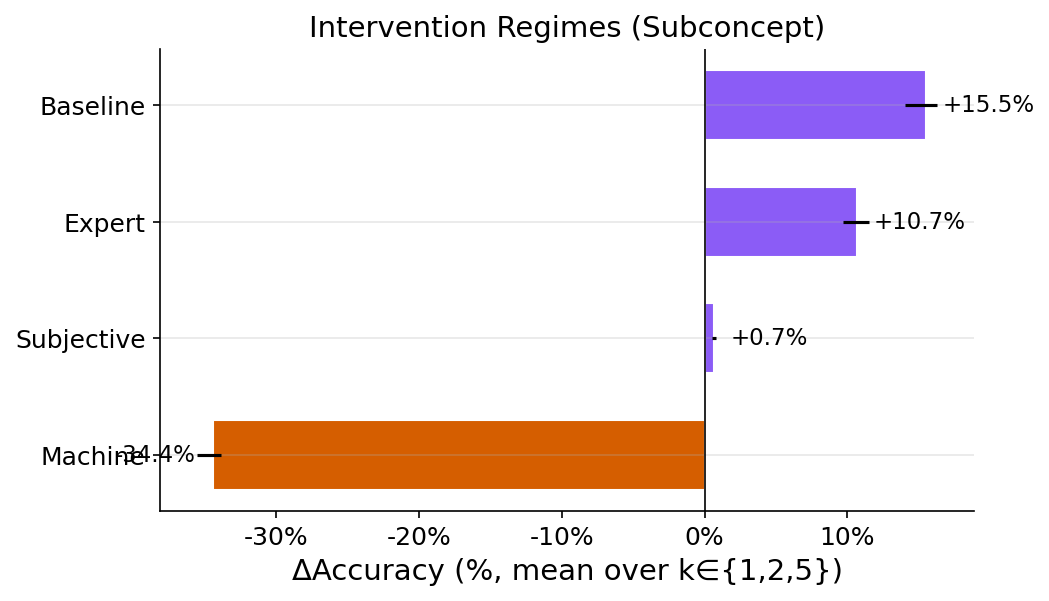
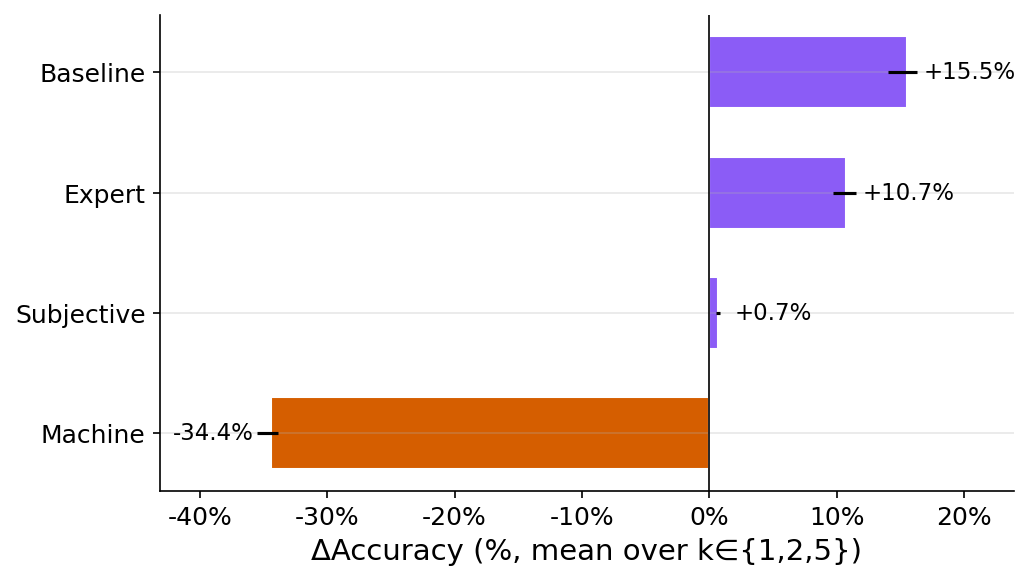
Fix plots (annotation clipping), rewrite Quick Start with concept discovery
- Fixed annotation padding in all plot functions (clip_on=False, ylim/xlim padding)
- Quick Start now trains both ideal and subconcept CBMs, uses benchmark.accuracy,
  and shows plot_concept_discovery — fully runnable from repo
- Generated 3 clean plot PNGs: intervention_curve, regime_comparison, concept_discovery

Changed region(s): [[0.0, 0.0929, 0.9622, 0.9914], [0.2793, 0.031, 0.9932, 0.4337], [0.6518, 0.4647, 0.807, 0.6196]]

diff --git a/concept_benchmark/benchmark/plots.py b/concept_benchmark/benchmark/plots.py
@@ -72,23 +72,24 @@ def plot_intervention_curve(
             f"{y:.1f}%",
             (x, y),
             textcoords="offset points",
-            xytext=(0, 8),
+            xytext=(0, 10),
             fontsize=style.FONT_SIZE_ANNOT,
             ha="center",
+            clip_on=False,
         )
 
     if baseline_accuracy is not None:
-        ax.axhline(
-            baseline_accuracy * 100,
-            color=style.COLOR_BASELINE,
-            linestyle="--",
-            linewidth=1.5,
-            label="DNN baseline",
-        )
+        bval = baseline_accuracy * 100
+        ax.axhline(bval, color=style.COLOR_BASELINE, linestyle="--", linewidth=1.5, label="DNN baseline")
 
     ax.set_xlabel("Intervention budget (k)", fontsize=style.FONT_SIZE)
     ax.set_ylabel(metric.replace("_", " ").title() + " (%)", fontsize=style.FONT_SIZE)
     ax.yaxis.set_major_formatter(style.pct_formatter())
+
+    # Pad y-axis to avoid clipping annotations
+    ymin, ymax = ax.get_ylim()
+    ax.set_ylim(ymin - 1, ymax + 3)
+
     style.apply_style(ax)
 
     if label or baseline_accuracy is not None:
@@ -153,14 +154,16 @@ def plot_regime_comparison(
     ax.axvline(0, color="black", linewidth=0.8)
 
     for i, m in enumerate(means):
+        # Always annotate on the outer end of the bar
         ax.annotate(
             f"{m:+.1f}%",
             (m, i),
             textcoords="offset points",
-            xytext=(8 if m >= 0 else -8, 0),
+            xytext=(8, 0) if m >= 0 else (-8, 0),
             fontsize=style.FONT_SIZE_ANNOT,
             ha="left" if m >= 0 else "right",
             va="center",
+            clip_on=False,
         )
 
     ax.set_xlabel(
@@ -170,6 +173,10 @@ def plot_regime_comparison(
     ax.xaxis.set_major_formatter(style.pct_formatter())
     style.apply_style(ax)
     ax.invert_yaxis()
+
+    # Pad x-axis so annotations don't clip
+    xmin, xmax = ax.get_xlim()
+    ax.set_xlim(xmin - 5, xmax + 5)
 
     return fig, ax
 
@@ -381,6 +388,9 @@ def plot_concept_discovery(
             ha="center",
             va="bottom",
             fontsize=style.FONT_SIZE_ANNOT,
+            xytext=(0, 3),
+            textcoords="offset points",
+            clip_on=False,
         )
         ax.annotate(
             f"{b:.1f}%",
@@ -388,12 +398,20 @@ def plot_concept_discovery(
             ha="center",
             va="bottom",
             fontsize=style.FONT_SIZE_ANNOT,
+            xytext=(0, 3),
+            textcoords="offset points",
+            clip_on=False,
         )
 
     ax.set_xticks(x)
     ax.set_xticklabels([f"k={k}" for k in budgets], fontsize=style.FONT_SIZE)
     ax.set_ylabel("Accuracy (%)", fontsize=style.FONT_SIZE)
     ax.yaxis.set_major_formatter(style.pct_formatter())
+
+    # Pad y-axis for annotations
+    ymin, ymax = ax.get_ylim()
+    ax.set_ylim(ymin, ymax + 3)
+
     ax.legend(fontsize=style.FONT_SIZE_LEGEND)
     style.apply_style(ax)
 

diff --git a/README.md b/README.md
@@ -113,52 +113,55 @@ dataset.train.explore()  # opens in the browser
   <img src="docs/assets/robot_samples.png" width="600" alt="Sample Glorps and Drents with concept annotations">
 </p>
 
-Train a CBM — concept detector (images → concepts) and label predictor (concepts → label):
+Train CBMs on both concept sets and compare (requires cloning the repo):
 
 ```python
-import numpy as np
-from experiments.models import (
-    ConceptDetector, FrontEndModel, ConceptBasedModel, RobotConceptClassifier,
-)
-
-# Using `dataset` from the generation step above
-# Step 1: train concept detector (images → concepts)
-n_concepts = dataset.train.n_concepts
-cd = ConceptDetector(model=RobotConceptClassifier(num_concepts=n_concepts, input_size=32))
-cd.fit(dataset.train, dataset.val,
-       fit_params={"epochs": 50, "lr": 1e-3, "patience": 10})
-
-# Step 2: train label predictor (concepts → label)
-fe = FrontEndModel()
-fe.fit(dataset.train.C, dataset.train.y)
-
-# Step 3: combine into a CBM and evaluate
-cbm = ConceptBasedModel(concept_detector=cd, label_predictor=fe)
-predictions = cbm.predict(dataset.test)
-accuracy = np.mean(predictions == dataset.test.y)
-print(f"CBM accuracy: {accuracy:.4f}")
-# CBM accuracy: 0.7812
-```
-
-For a complete walkthrough including interventions and alignment, see `examples/robot_pipeline_example.py`.
-
-Visualize intervention results:
-
-```python
-# Plot accuracy vs intervention budget
-from concept_benchmark.benchmark import plot_intervention_curve
+from concept_benchmark.robots import DatasetGenerator
+from concept_benchmark.transforms import ConceptDropGenerator
+from concept_benchmark.benchmark import accuracy, plot_concept_discovery
+from experiments.models import ConceptDetector, FrontEndModel, ConceptBasedModel, RobotConceptClassifier
 import pandas as pd
 
-results = pd.DataFrame({
-    "budget": [0, 1, 3, 7],
-    "accuracy": [0.8673, 0.9734, 0.9767, 0.9767],
-})
-fig, ax = plot_intervention_curve(results, baseline_accuracy=0.8746)
+def train_and_evaluate(concept_preset, drop_list):
+    """Generate data, train CBM, return accuracy."""
+    ds = DatasetGenerator(seed=1014, concept_preset=concept_preset).generate()
+    ds = ConceptDropGenerator(ds, drop_list).generate()
+    ds.sample(test_size=10000, val_size=0.2, train_size=3800, seed=1014)
+
+    cd = ConceptDetector(model=RobotConceptClassifier(num_concepts=ds.train.n_concepts, input_size=32))
+    cbm = ConceptBasedModel(concept_detector=cd)
+    cbm.fit(ds.train, ds.val, concept_fit_params={"epochs": 50, "lr": 1e-3, "patience": 10})
+    return accuracy(cbm.predict(ds.test), ds.test.y)
+
+# Step 1: Train on ideal concepts (7 concepts)
+ideal_acc = train_and_evaluate("ground_truth", [
+    "has_elbows", "hand_shape",
+    "foot_shape_flat_rounded", "foot_shape_pointy_trapezoid", "foot_shape_pointy_3sided",
+    "foot_shape_flat_lshaped", "foot_shape_pointy_4sided", "foot_shape_pointy_square",
+    "foot_shape_pointy_rounded", "foot_shape_flat_5sided", "foot_shape_flat_square",
+    "foot_shape_flat_trapezoid",
+])
+print(f"Ideal CBM: {ideal_acc:.4f}")      # 0.8673
+
+# Step 2: Train on subconcepts (12 concepts)
+sub_acc = train_and_evaluate("foot_subtypes", [
+    "has_elbows", "hand_shape", "foot_shape",
+    "foot_shape_flat_rounded", "foot_shape_flat_lshaped",
+    "foot_shape_pointy_trapezoid", "foot_shape_pointy_3sided",
+])
+print(f"Subconcept CBM: {sub_acc:.4f}")    # 0.7812
+
+# Step 3: Plot the comparison
+ideal_df = pd.DataFrame({"budget": [0], "accuracy": [ideal_acc]})
+sub_df = pd.DataFrame({"budget": [0], "accuracy": [sub_acc]})
+fig, ax = plot_concept_discovery(ideal_df, sub_df, dnn_accuracy=0.8746, budgets=[0])
 ```
 
 <p align="center">
-  <img src="docs/assets/intervention_curve.png" width="500" alt="Intervention curve example">
+  <img src="docs/assets/concept_discovery.png" width="500" alt="Concept discovery: ideal vs subconcept accuracy">
 </p>
+
+For a complete walkthrough including interventions, alignment, and regime comparisons, see `examples/robot_pipeline_example.py`.
 
 ### Sudoku Validation
 
